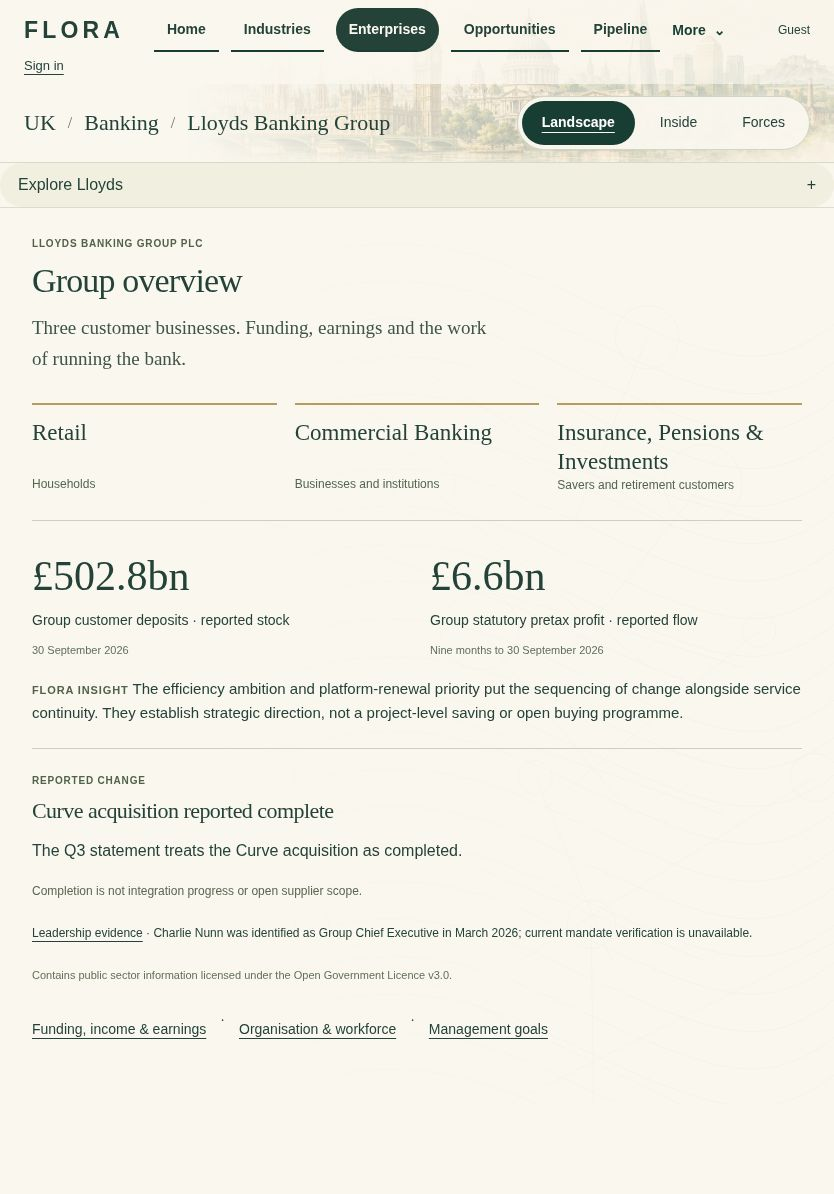
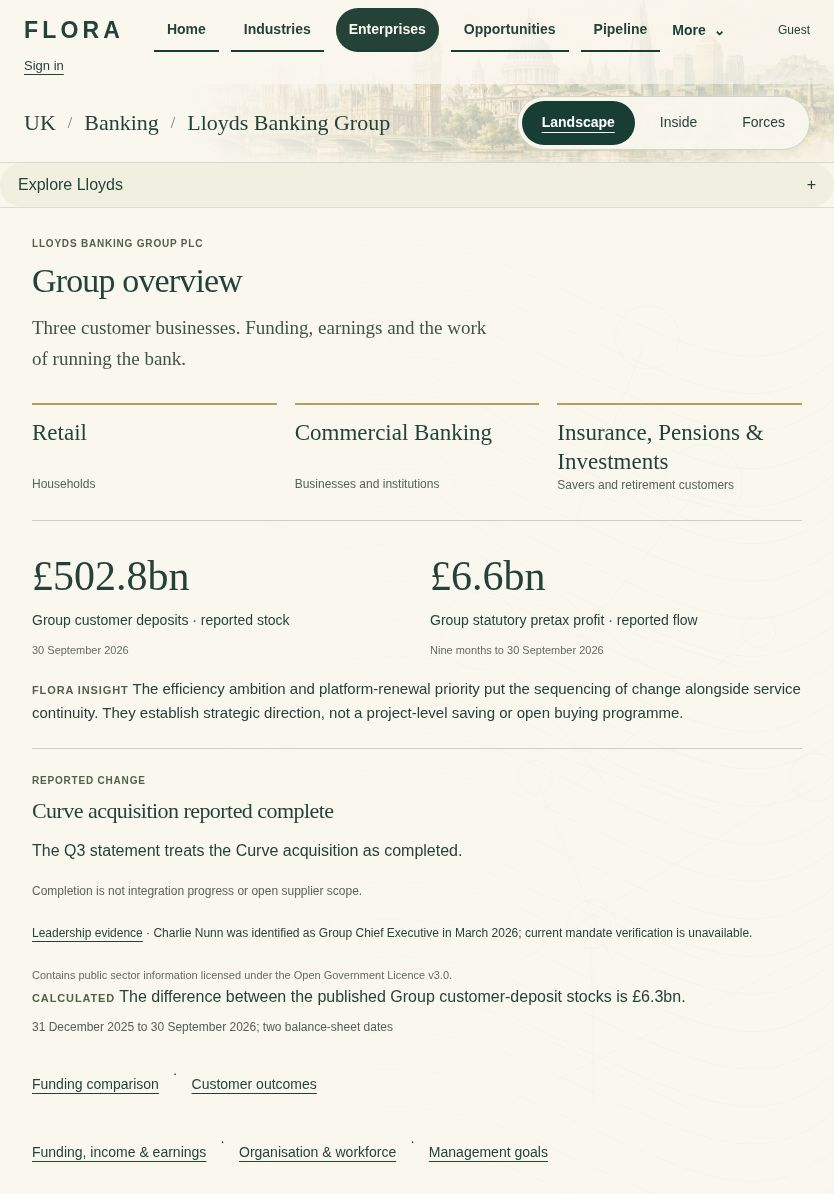
Preserve governed agenda and Factory connections across CEO integration

diff --git a/cios/applications/flora/lloyds_gold.py b/cios/applications/flora/lloyds_gold.py
@@ -114,7 +114,7 @@ def canonical_query(query):
     # Legacy contextual overlays retain their existing finite resolver/renderer.
     # Mixed new selectors are not routed around canonical validation.
     if not {'focus','subject'} & set(query) and query.get('layer') in (['regulators'],['suppliers']):return None
-    if 'detail' in query and 'focus' not in query and query.get('detail')!=['']:return None
+    if 'detail' in query and 'focus' not in query:return None
     allowed={'stream','focus','subject','detail','market','layer','selected','reading'}
     if set(query)-allowed or any(not isinstance(a,list) or len(a)!=1 or not isinstance(a[0],str) for a in query.values()):
         raise ValueError('Unsupported enterprise state')
@@ -529,6 +529,16 @@ def main(state,data,facts,issues=()):
             if 'CEO1-ROLE-NUNN-20260322' in facts:
                 p.note_editorial_sources(facts['CEO1-ROLE-NUNN-20260322'].sources)
                 body+='<p class="ceo-lead-context">'+link(state,'Leadership evidence',stream='inside',focus='people',detail='leadership')+' · Charlie Nunn was identified as Group Chief Executive in March 2026; current mandate verification is unavailable.</p><p class="ceo-attribution">Contains public sector information licensed under the Open Government Licence v3.0.</p>'
+            # Keep the existing EAI agenda destinations discoverable, with their
+            # current eligibility owner deciding whether each link may appear.
+            related=[]
+            funding=next((row for row in issues if row.key=='funding-base'),None)
+            if funding and funding.facts[-1].semantic_type=='calculated' and p.eligible(funding.facts[-1]):
+                body+='<div data-intelligence="funding-base">'+p.render(funding.facts[-1])+'</div>'
+                related.append('<a href="/enterprises/lloyds?agenda=funding-base#agenda-insight">Funding comparison</a>')
+            if any(row.key=='service-recovery' for row in issues):
+                related.append('<a href="/enterprises/lloyds?agenda=service-recovery#agenda-insight">Customer outcomes</a>')
+            if related:body+='<p class="gold-related">'+' · '.join(related)+'</p>'
             body+='<p class="gold-related">'+link(state,'Funding, income & earnings',focus='economics')+' · '+link(state,'Organisation & workforce',stream='inside',focus='people',detail='leadership')+' · '+link(state,'Management goals',stream='forces',focus='strategy',detail='goals')+'</p>'
         elif state.focus in {'group','economics'}:body+=_ceo_financial(state,facts,issues)
         else:body+=division(state,facts)
@@ -562,7 +572,13 @@ def render(query,headers=None,*,canonical=False):
         for stream in REGIONS:
             old=e(v.stream_url(ctx,stream)+'#stream-'+stream,quote=True)
             top=top.replace('href="'+old+'"','href="'+e(href(state,stream=stream),quote=True)+'"')
-        markup=panels._frame(ctx,headers,data,issues,(),notice+main(state,data,facts,issues),top=top,left=scene(state,facts),show_layers=False)
+        # Preserve the existing opt-in, authorised non-production Canvas replay
+        # slot. The existing service owns environment/ACL/lifecycle checks.
+        change=''
+        if canonical and not state.detail and state.focus==REGIONS[state.stream][0][0]:
+            from .memory.commercial_views import commercial_change
+            change=commercial_change('lloyds',state.stream,headers)
+        markup=panels._frame(ctx,headers,data,issues,(),change+notice+main(state,data,facts,issues),top=top,left=scene(state,facts),show_layers=False)
         assets=('<link rel="stylesheet" href="'+preview.PATH+'/assets/styles"><link rel="stylesheet" href="'+PATH+'/assets/styles">'
                 '<script defer src="'+preview.PATH+'/assets/interactions"></script>')
         markup=markup.replace('</head>',assets+'</head>')

diff --git a/tests/test_flora_lloyds_ceo.py b/tests/test_flora_lloyds_ceo.py
@@ -204,3 +204,21 @@ def test_history_keeps_new_role_bytes_exact_and_rejects_unreviewed_additions(tmp
     file=root/'enterprise-knowledge/banking/research-model/source-snapshots'/('unknown.txt'if change=='unknown'else'CEO1-GOV-ROLE.'+change)
     file.write_text(file.read_text()+'\nchanged'if file.exists()else'unknown')
     with pytest.raises(AssertionError):history.verify_history(root)
+
+
+def test_existing_eai_outcomes_and_funding_still_have_one_source_guarded_entry():
+    html=main(v.render(g.CANONICAL,{}))
+    assert html.count('data-intelligence="funding-base"')==1
+    assert html.count('agenda=service-recovery#agenda-insight')==1
+    assert 'Funding comparison'in html and 'Customer outcomes'in html
+
+
+def test_existing_isolated_replay_owner_is_preserved_without_guest_or_production_authority(monkeypatch):
+    from cios.applications.flora.memory import commercial_views
+    calls=[]
+    def guarded(binding,stream,headers):
+        calls.append((binding,stream,headers));return ''
+    monkeypatch.setattr(commercial_views,'commercial_change',guarded)
+    v.render(g.CANONICAL,{'stream':['forces']})
+    assert calls==[('lloyds','forces',None)]
+    assert 'data-commercial-change'not in v.render(g.CANONICAL,{'stream':['forces']})

diff --git a/docs/product/flora-experience/lloyds-ceo/validate.py b/docs/product/flora-experience/lloyds-ceo/validate.py
@@ -12,7 +12,7 @@ APPROVED={
  'docs/flora-runtime/accepted-ux-recovery/browser.py','docs/flora-runtime/living-enterprise-preview/browser.py','docs/flora-runtime/lloyds-gold-standard/browser.py',
  'tests/test_flora_lloyds_ceo.py','tests/test_flora_lloyds_gold.py','tests/test_flora_living_enterprise_preview.py','tests/test_flora_accepted_ux_recovery.py',
  'tests/test_flora_lloyds_flagship.py','tests/test_flora_enterprise_economics_a1.py','tests/test_flora_experience_684.py','tests/test_flora_visual_panels_632.py',
- 'tools/research/eei2b_compatibility.py','tools/research/ux_unify_compatibility.py','tools/research/history_integrity.py',
+ 'tests/test_flora_visual_streams_612.py','tools/ci/flora_vp2_preview.cjs','tools/ci/flora_enterprise_economics_preview.cjs','tools/research/eei2b_compatibility.py','tools/research/ux_unify_compatibility.py','tools/research/history_integrity.py',
  'enterprise-knowledge/banking/research-model/source-snapshots/CEO1-GOV-ROLE.json',
  'enterprise-knowledge/banking/research-model/source-snapshots/CEO1-GOV-ROLE.txt',
 }

diff --git a/tests/test_flora_visual_streams_612.py b/tests/test_flora_visual_streams_612.py
@@ -51,7 +51,8 @@ def test_exact_accepted_seven_sources_and_only_responsive_current_scene_loaded()
    assert hashlib.sha256(raw).hexdigest()==variant['sha256']
    assert len(raw)==variant['bytes'] and variant['bytes']<row['original_bytes']
  for scope,stream in CASES:
-  html=v.render(v.SCOPES[scope]['route'],{'stream':[stream]})
+  # The original responsive subtree contract is retained on the old view.
+  html=v.render('/enterprises/lloyds/legacy' if scope=='lloyds' else v.SCOPES[scope]['route'],{'stream':[stream]})
   images=[a for t,a in DOM(html).nodes if t=='img'];assert len(images)==3
   from cios.applications.flora.visual_panels import asset_manifest
   current=asset_manifest()['portraits'][scope+'-'+stream]

diff --git a/docs/product/flora-experience/lloyds-ceo/Validation.md b/docs/product/flora-experience/lloyds-ceo/Validation.md
@@ -53,6 +53,10 @@ The first broader current-head run reported 28 failures (998 passed). These are 
 
 Earlier focused stale checks were reconciled individually: old #726 arrival and #730 unchanged-default assertions use the explicit predecessor; Gold route pin tests unwrap the exact new cut before the unchanged old pin; #732 goals/people assertions now inspect actual horizon scorecards and unavailable workforce values. Commercial/goal questions must differ; tools/licences must not become workforce counts. These are presentation-contract changes, not permission exceptions.
 
+## Hosted integration findings
+
+The first hosted head exposed two additional functional regressions outside the initial local selection: the canonical Forces route had lost the existing authorised non-production Factory replay slot, and the Group page no longer exposed the existing EAI customer-outcomes/funding destinations. Both are restored by calling their existing owners, with unchanged ACL/environment/source-lifecycle gates. Neither private replay nor canonical evidence is made public. The A1 browser now begins at its explicit retained funding deep link because the default is deliberately the CEO overview. The generic VP-2 proof now checks the actual CEO collapse button as well as the original details-based scene on other routes, and exercises its historical technology subject circuit on the explicit predecessor after verifying canonical CEO arrival. The original responsive two-subtree assertion similarly runs on the predecessor; current CEO uses one responsive scene and separate browser checks. Unqualified empty legacy detail remains rejected. The eligible existing deposit calculation remains visible on Group with its own stock-date caveat. No check is removed or given a baseline exception.
+
 ## Reproducible checks
 
 - `tests/test_flora_lloyds_ceo.py`: canonical and legacy routes; finite selectors and HEAD caching; private/foreign/owner denial; source lifecycle across package/source/fact; wrong subject/entity/date/name/role/current-mandate rejection; OGL scope/terms/restriction rejection; workforce non-proxies; nine conceptual operating contexts; seven goal distinctions; held financial exclusions; unchanged Source AST and old compatibility constants; exact research addition and unknown-file rejection.
